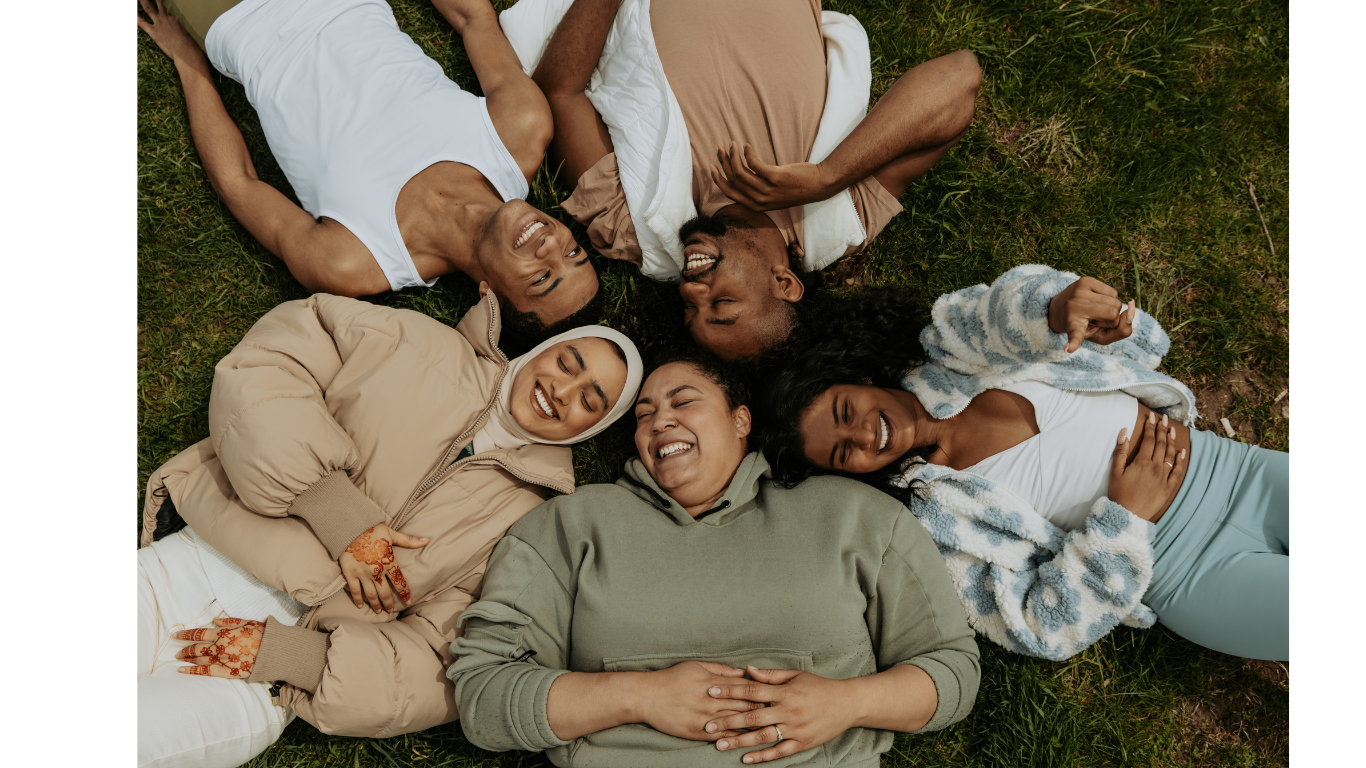
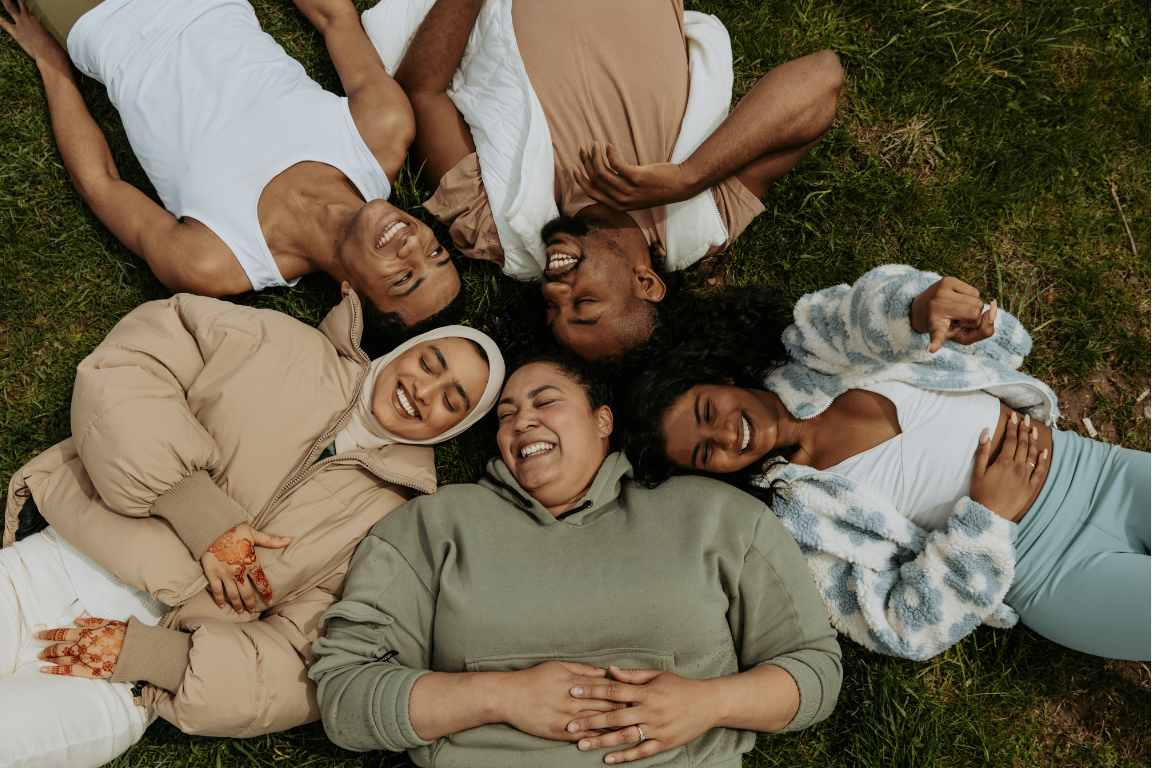
Header image positioned and size adjusted

diff --git a/style.css b/style.css
@@ -19,10 +19,10 @@ nav {
     display:flex;
     align-items:flex-end;
 }
+
 nav ul {
     display:flex;
     flex-direction:row;
-    
 }
 
 nav ul li {
@@ -35,4 +35,19 @@ nav ul li a {
     color:black;
     font-weight:700;
     font-size: larger;
+}
+
+div.HeaderImgContainer {
+    width:100vw;
+    height:380px;
+    display:flex;
+    
+}
+
+div.HeaderImgContainer img {
+    object-fit:cover;
+    width:100vw;
+    object-position: 0px -110px;
+
+
 }

diff --git a/index.html b/index.html
@@ -24,5 +24,9 @@
             </ul>
         </nav>
     </header>
+
+    <div class="HeaderImgContainer">
+        <img src="Images/Header.png">
+    </div>
 </body>
 </html>
